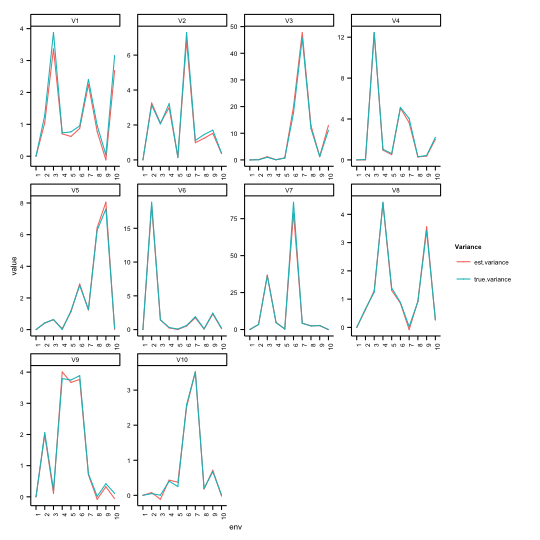
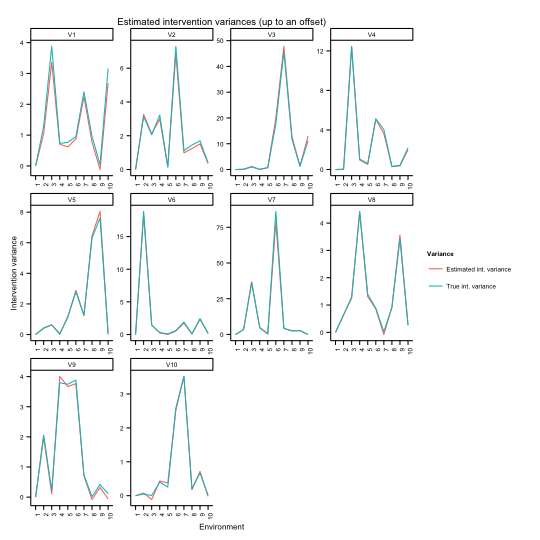
vignette

Changed region(s): [[0.0296, 0.0, 0.9481, 1.0], [0.0, 0.4444, 0.0593, 0.563], [0.0296, 0.7407, 0.0593, 0.7704]]

diff --git a/vignettes/README.md b/vignettes/README.md
@@ -14,6 +14,8 @@ under different shift interventions are available.
 ```r
 # load package
 require(backShift)
+require(ggplot2)
+require(fields)
  
 # set seed
 seed <- 1
@@ -213,18 +215,34 @@ metricsStabSelection <- metricsThreshold(A, Ahat.structure, thres = 0)
  
 ## Estimating the intervention variances
  
+The location and the strength of the shift interventions can be estimated from the
+data (up to an offset). These are returned by the function `backShift()` as a 
+($G \times p$)-dimensionalmatrix `varianceEnv` where $G$ is the number of environments and
+$p$ is the number of variables. The ij-th entry contains the difference
+between the estimated intervention variance of variable j in environment i
+and the estimated intervention variance of variable j in the base setting
+(given by input parameter `baseSettingEnv`).
+ 
 
 ```r
-plotInterventionVar(-backshift.res$varianceEnv, simulation.res$interventionVar^2)
+plotInterventionVars(backshift.res$varianceEnv, simulation.res$interventionVar)
 ```
 
 ![plot of chunk unnamed-chunk-13](figure/unnamed-chunk-13-1.png) 
-
-```r
-plotInterventionVar(-backshift.res$varianceEnv)
-```
-
-![plot of chunk unnamed-chunk-13](figure/unnamed-chunk-13-2.png) 
  
  
 ## Checking the model assumptions
+ 
+We can check the model assumptions to some extent by the success or failure of the joint 
+diagonalization procedure. The plots below show that the joint diagonalization succeeded
+for all environments as all matrices are diagonal. The values are scaled to [0,1] 
+to allow for comparability accross plots.
+ 
+
+```r
+for(i in 1:G){
+  plotDiagonalization(estConnectivity = backshift.res$Ahat, X = X, env = env, whichEnv = i)
+}
+```
+
+![plot of chunk unnamed-chunk-14](figure/unnamed-chunk-14-1.png) ![plot of chunk unnamed-chunk-14](figure/unnamed-chunk-14-2.png) ![plot of chunk unnamed-chunk-14](figure/unnamed-chunk-14-3.png) ![plot of chunk unnamed-chunk-14](figure/unnamed-chunk-14-4.png) ![plot of chunk unnamed-chunk-14](figure/unnamed-chunk-14-5.png) ![plot of chunk unnamed-chunk-14](figure/unnamed-chunk-14-6.png) ![plot of chunk unnamed-chunk-14](figure/unnamed-chunk-14-7.png) ![plot of chunk unnamed-chunk-14](figure/unnamed-chunk-14-8.png) ![plot of chunk unnamed-chunk-14](figure/unnamed-chunk-14-9.png) ![plot of chunk unnamed-chunk-14](figure/unnamed-chunk-14-10.png) 
